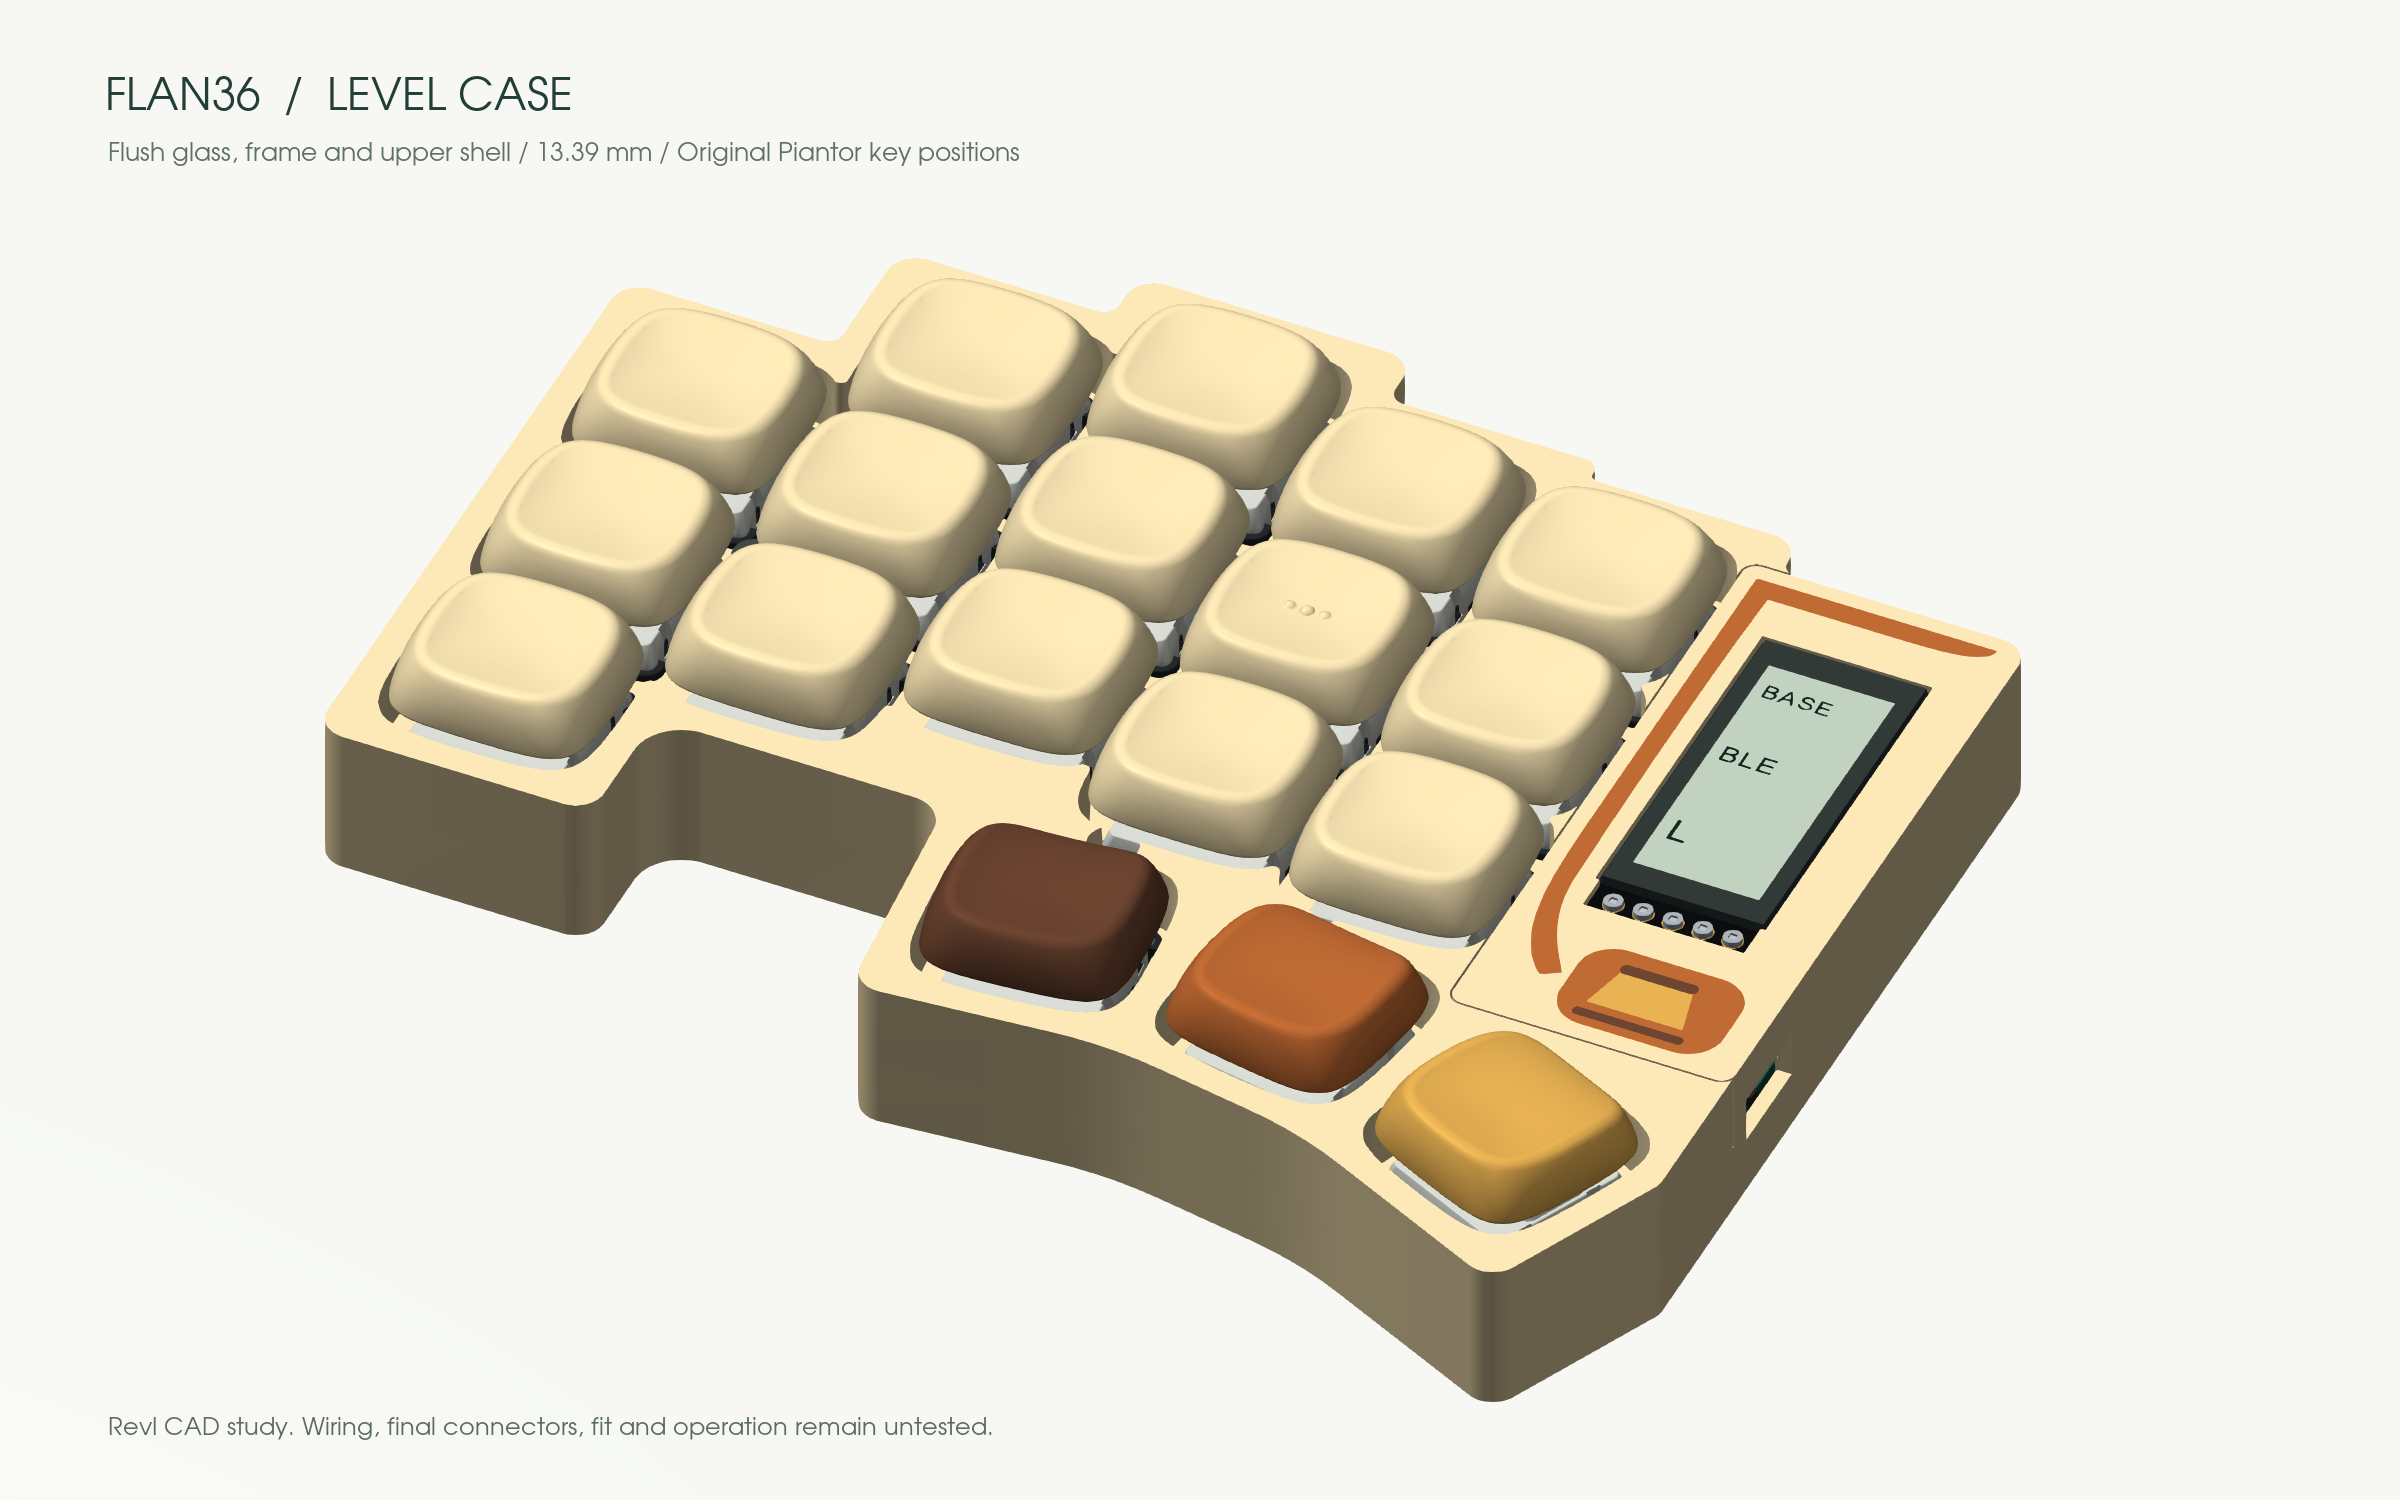
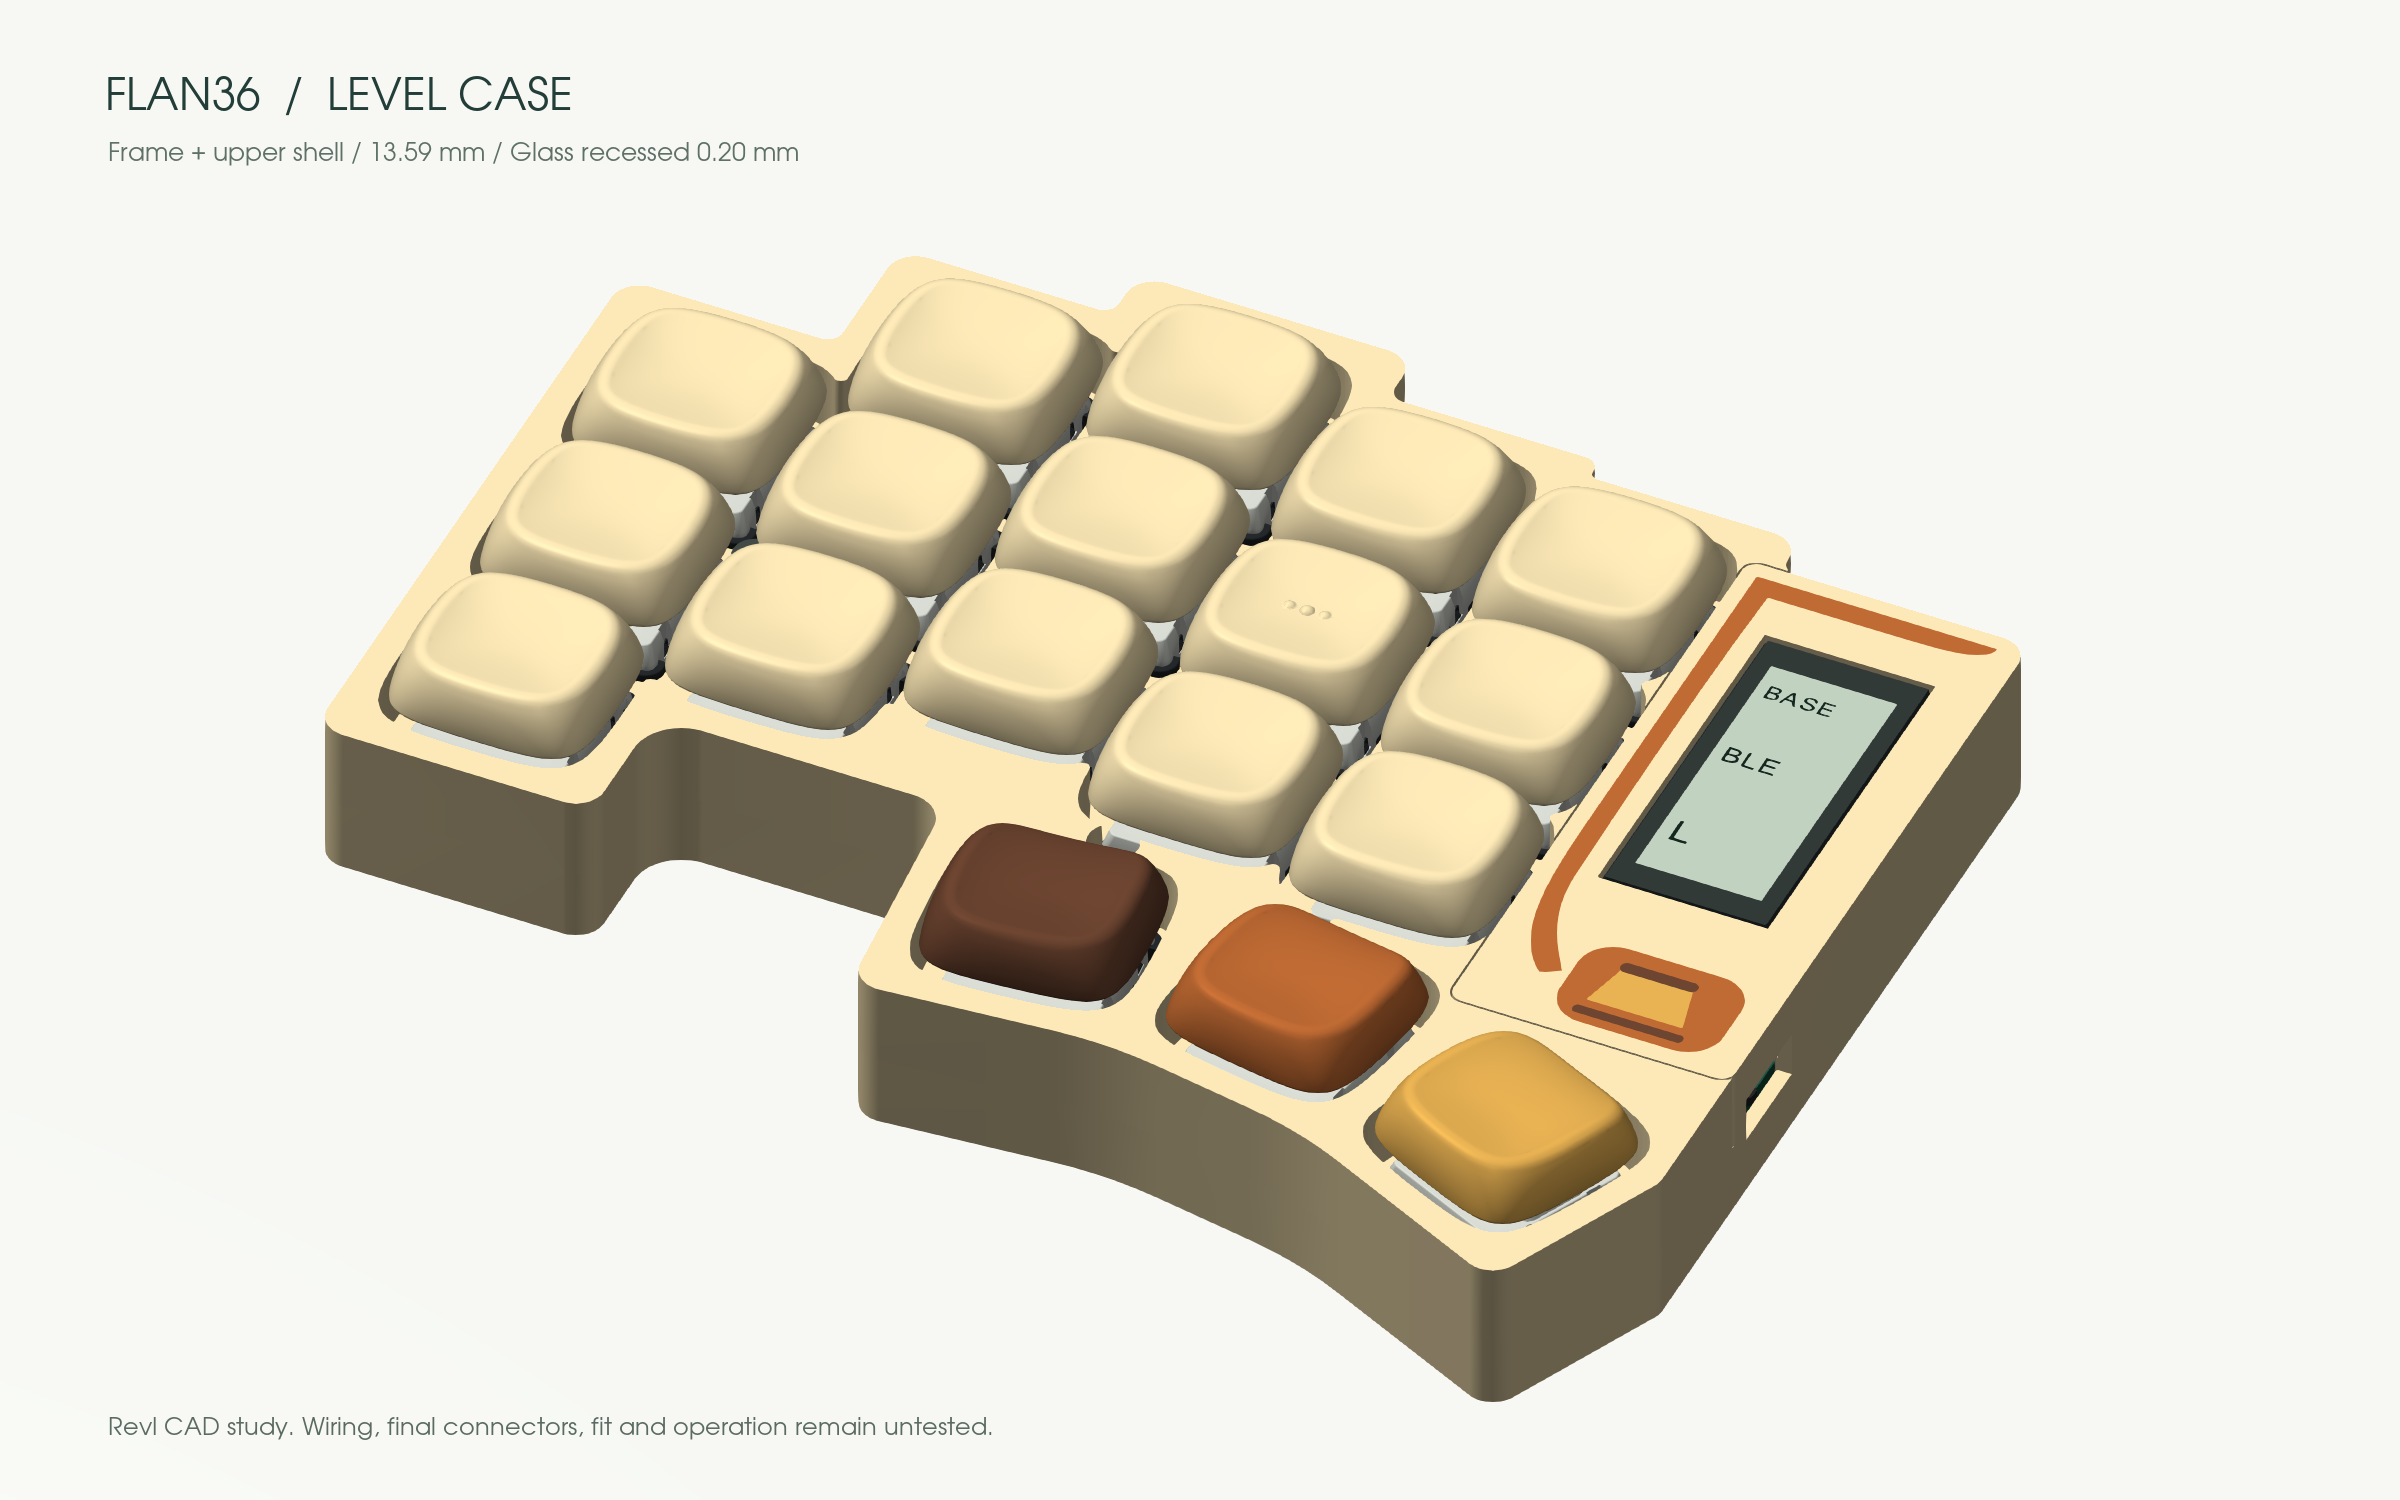
Refresh assembly renders from the approved R4 geometry

diff --git a/tools/render_revI.py b/tools/render_revI.py
@@ -79,7 +79,7 @@ def render(kind):
         for lead in m['batteryLeadProfiles'][side+'-'+cfg['batteries'][side]]:
             part(side,f"battery-lead-{lead['index']}",rgb(lead['color']))
         # Reflective screen artwork is illustrative, not a live hardware readback.
-        cx=122.8 if side=='left' else 37.2;hy=m['halves'][side]['display_header']['y'];dz=45 if stack else 0
+        bounds=m['parts'][side+'-display']['bounds_mm'];cx=(bounds[0]+bounds[3])/2;hy=m['halves'][side]['display_header']['y'];dz=45 if stack else 0
         screen_z=m['parameter_values_mm']['DisplayBottom']+1.915
         glass=vtk.vtkPlaneSource();glass.SetOrigin(offset+cx-5.372,hy-29.54,screen_z+dz);glass.SetPoint1(offset+cx+5.372,hy-29.54,screen_z+dz);glass.SetPoint2(offset+cx-5.372,hy-4.26,screen_z+dz)
         primitive(glass,(0,0,0),(.73,.79,.725))
@@ -112,8 +112,8 @@ def render(kind):
     if kind!='corner':label(titles[kind],105,1380,44)
     sub=('Left half  /  KLP LAME  /  Orthographic profile' if kind=='side' else '36 keys  /  KLP LAME  /  Two nice!view displays  /  24 mm bay') if kind!='stack' else 'Adafruit 1570 or 301230. Captured battery cage and magnetic frame.'
     sub='Contour / Original thumb angles / Local tangent corners' if kind=='detail' else sub
-    if kind=='level':sub='Flush glass, frame and upper shell / 13.39 mm / Original Piantor key positions'
-    if kind=='corner':sub='Color rim + Smooth frame / Shared R2.4 corner / Actual CAD meshes'
+    if kind=='level':sub=f"Frame + upper shell / {m['parameter_values_mm']['FrameTop']:g} mm / Glass recessed 0.20 mm"
+    if kind=='corner':sub='Color rim + Flan frame / Shared R2.4 corner / Actual CAD meshes'
     if kind!='corner':label(sub,108,1334,25,(.37,.44,.41))
     label('RevI CAD study. Wiring, final connectors, fit and operation remain untested.',108,60,24,(.36,.42,.39))
     cam=ren.GetActiveCamera();cam.ParallelProjectionOn()
@@ -126,7 +126,7 @@ def render(kind):
     else:focal=(88,-39,28);pos=(225,-270,205);up=(0,0,1);scale=70
     cam.SetFocalPoint(*focal);cam.SetPosition(*pos);cam.SetViewUp(*up);cam.SetParallelScale(scale);ren.ResetCameraClippingRange();win.Render()
     if kind=='side':
-        label(f"Level shell + frame + glass: {m['parameter_values_mm']['FrameTop']:g} mm",105,1235,29)
+        label(f"Level shell + frame: {m['parameter_values_mm']['FrameTop']:g} mm / Glass: {m['parameter_values_mm']['DisplayBottom']+1.9:g} mm",105,1235,29)
         label('Heights above base; feet add 1.2 mm. Switch retention plate remains at 7.6 mm.',105,170,24,(.37,.44,.41))
     if kind=='stack':
         label('nice!view  /  nice!nano  /  LiPo 100 mAh',105,1230,27)

diff --git a/docs/level-stack.md b/docs/level-stack.md
@@ -5,7 +5,7 @@
 The following dimensions describe the earlier Level installation and are retained as its history.
 This prototype brings the **frame, display glass and Level upper shell to the same 13.39 mm plane**, lowering the frame by **1.41 mm** from the previous 14.8 mm design. Heights start at the case underside and exclude feet. The selected flat KLP caps still reach about **17.87 mm**, so overall keyboard height is unchanged; the switches and key positions have not moved.
 
-![Actual Level CAD assembly](images/revI-level.png)
+![Current R4 Level assembly; historical dimensions follow below](images/revI-level.png)
 
 | Part | Previous Z | New Z |
 |---|---:|---:|
